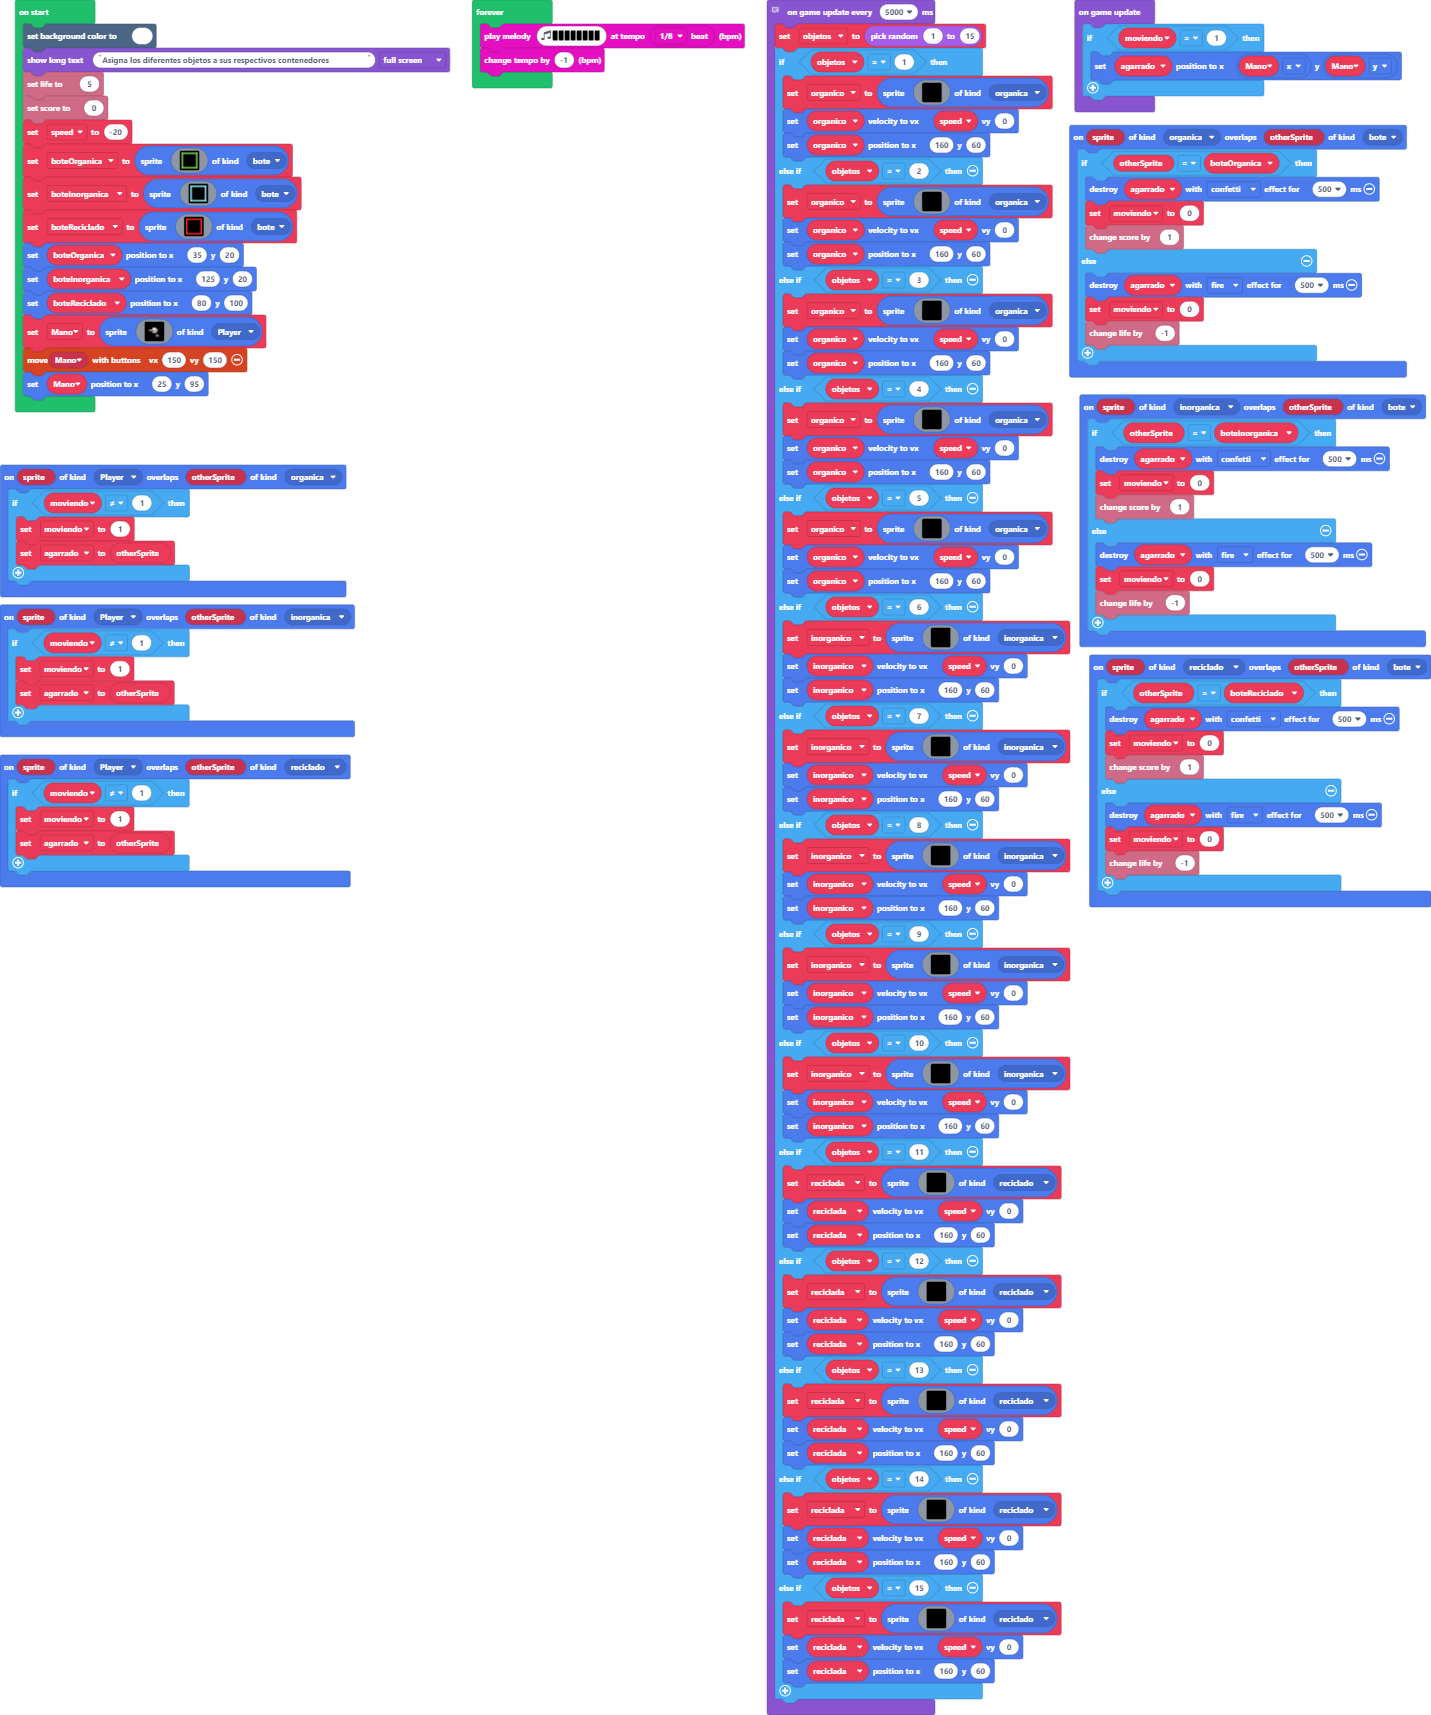
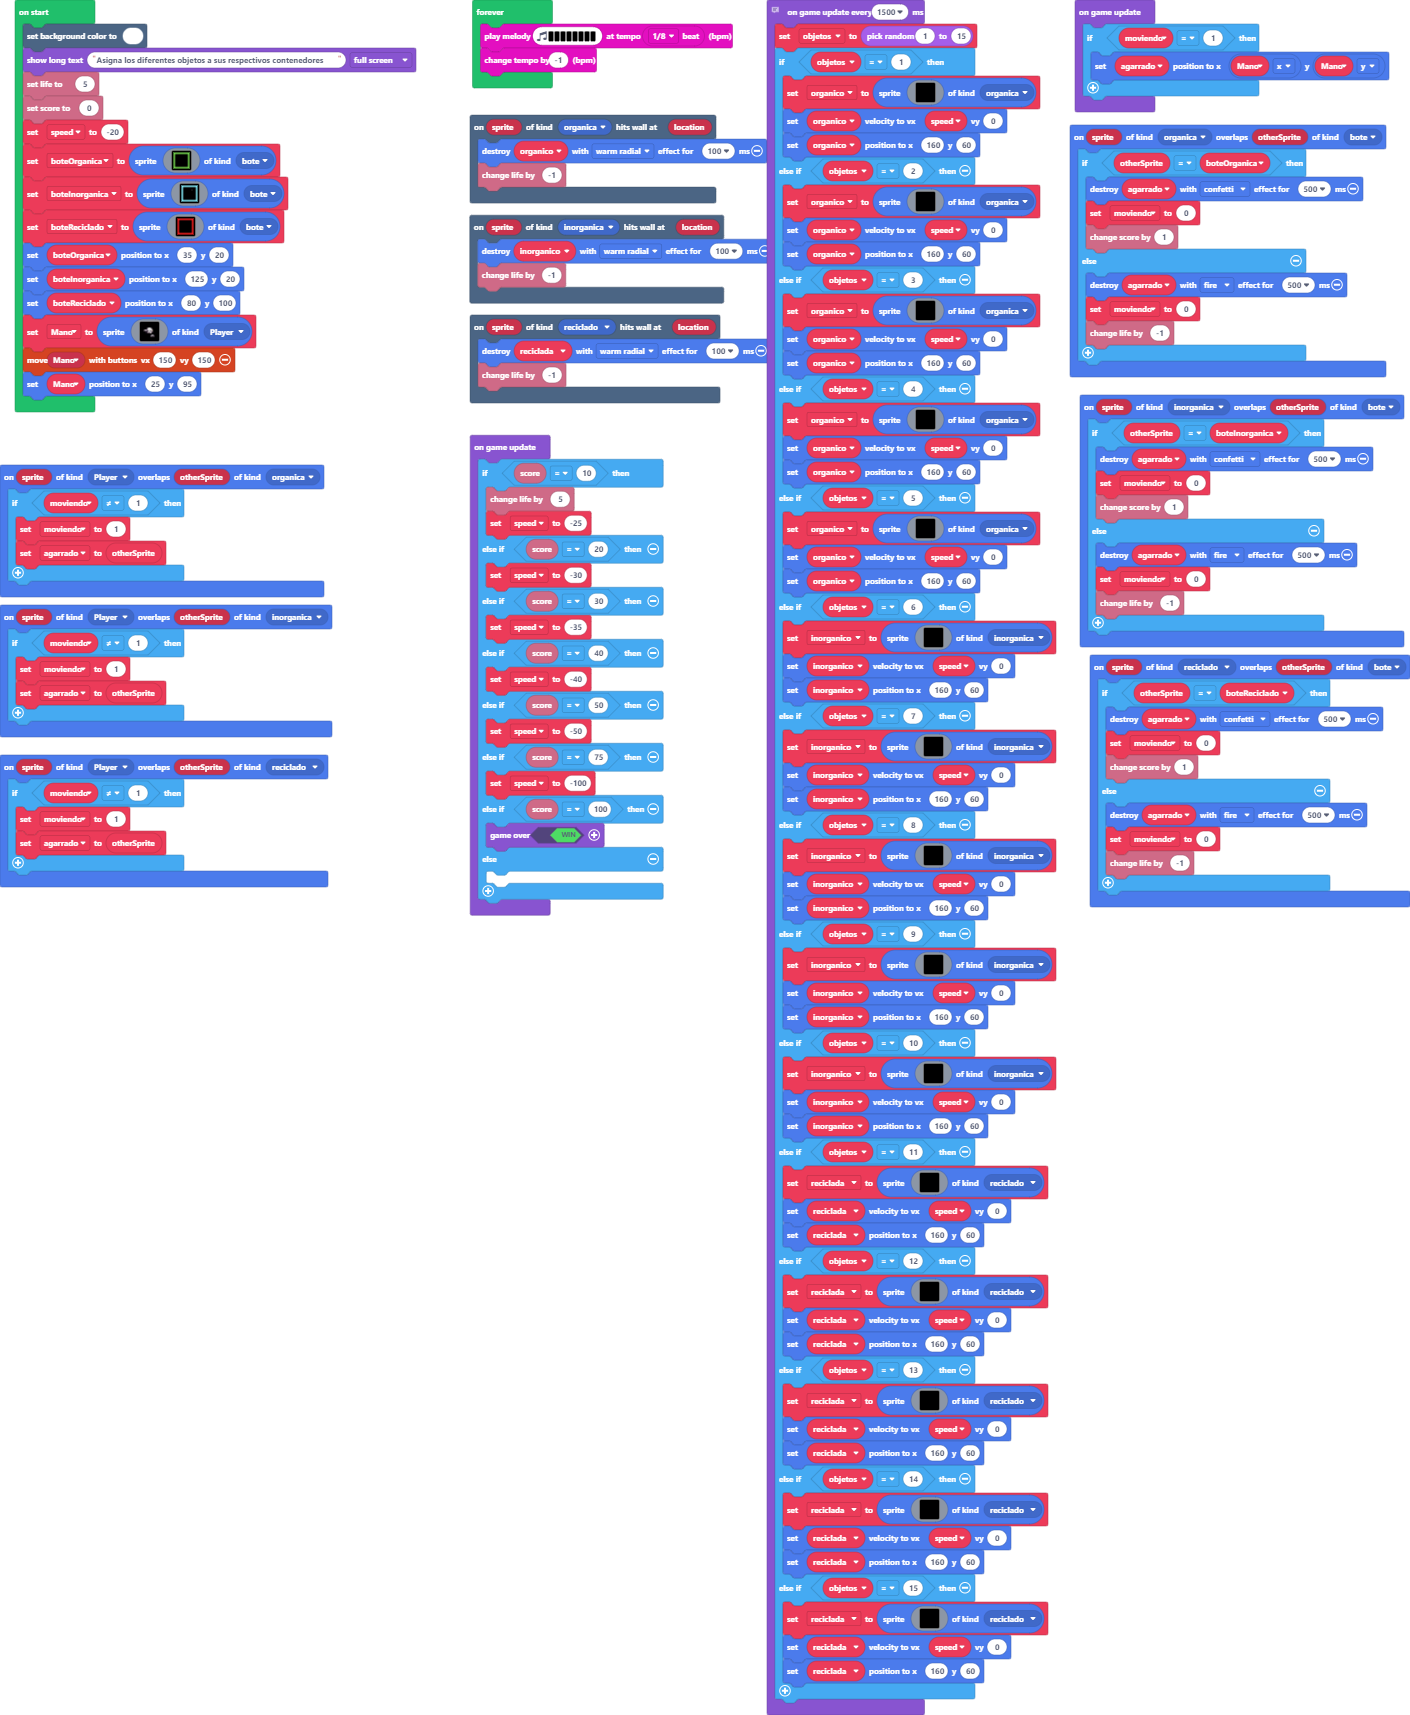
Update main.blocks, main.ts

diff --git a/main.ts b/main.ts
@@ -16,6 +16,10 @@ sprites.onOverlap(SpriteKind.reciclado, SpriteKind.bote, function (sprite, other
         info.changeLifeBy(-1)
     }
 })
+scene.onHitWall(SpriteKind.reciclado, function (sprite, location) {
+    reciclada.destroy(effects.warmRadial, 100)
+    info.changeLifeBy(-1)
+})
 sprites.onOverlap(SpriteKind.organica, SpriteKind.bote, function (sprite, otherSprite) {
     if (otherSprite == boteOrganica) {
         agarrado.destroy(effects.confetti, 500)
@@ -27,11 +31,19 @@ sprites.onOverlap(SpriteKind.organica, SpriteKind.bote, function (sprite, otherS
         info.changeLifeBy(-1)
     }
 })
+scene.onHitWall(SpriteKind.inorganica, function (sprite, location) {
+    inorganico.destroy(effects.warmRadial, 100)
+    info.changeLifeBy(-1)
+})
 sprites.onOverlap(SpriteKind.Player, SpriteKind.inorganica, function (sprite, otherSprite) {
     if (moviendo != 1) {
         moviendo = 1
         agarrado = otherSprite
     }
+})
+scene.onHitWall(SpriteKind.organica, function (sprite, location) {
+    organico.destroy(effects.warmRadial, 100)
+    info.changeLifeBy(-1)
 })
 sprites.onOverlap(SpriteKind.Player, SpriteKind.reciclado, function (sprite, otherSprite) {
     if (moviendo != 1) {
@@ -56,10 +68,10 @@ sprites.onOverlap(SpriteKind.inorganica, SpriteKind.bote, function (sprite, othe
         info.changeLifeBy(-1)
     }
 })
-let reciclada: Sprite = null
-let inorganico: Sprite = null
-let organico: Sprite = null
 let objetos = 0
+let organico: Sprite = null
+let inorganico: Sprite = null
+let reciclada: Sprite = null
 let moviendo = 0
 let agarrado: Sprite = null
 let boteReciclado: Sprite = null
@@ -206,6 +218,26 @@ Mano.setPosition(25, 95)
 game.onUpdate(function () {
     if (moviendo == 1) {
         agarrado.setPosition(Mano.x, Mano.y)
+    }
+})
+game.onUpdate(function () {
+    if (info.score() == 10) {
+        info.changeLifeBy(5)
+        speed = -25
+    } else if (info.score() == 20) {
+        speed = -30
+    } else if (info.score() == 30) {
+        speed = -35
+    } else if (info.score() == 40) {
+        speed = -40
+    } else if (info.score() == 50) {
+        speed = -50
+    } else if (info.score() == 75) {
+        speed = -100
+    } else if (info.score() == 100) {
+        game.over(true)
+    } else {
+    	
     }
 })
 // game.onUpdate(function () {
@@ -710,7 +742,7 @@ game.onUpdate(function () {
 // game.showLongText("Ronda " + ronda, DialogLayout.Bottom)
 // }
 // })
-game.onUpdateInterval(5000, function () {
+game.onUpdateInterval(1500, function () {
     objetos = randint(1, 15)
     if (objetos == 1) {
         organico = sprites.create(img`
